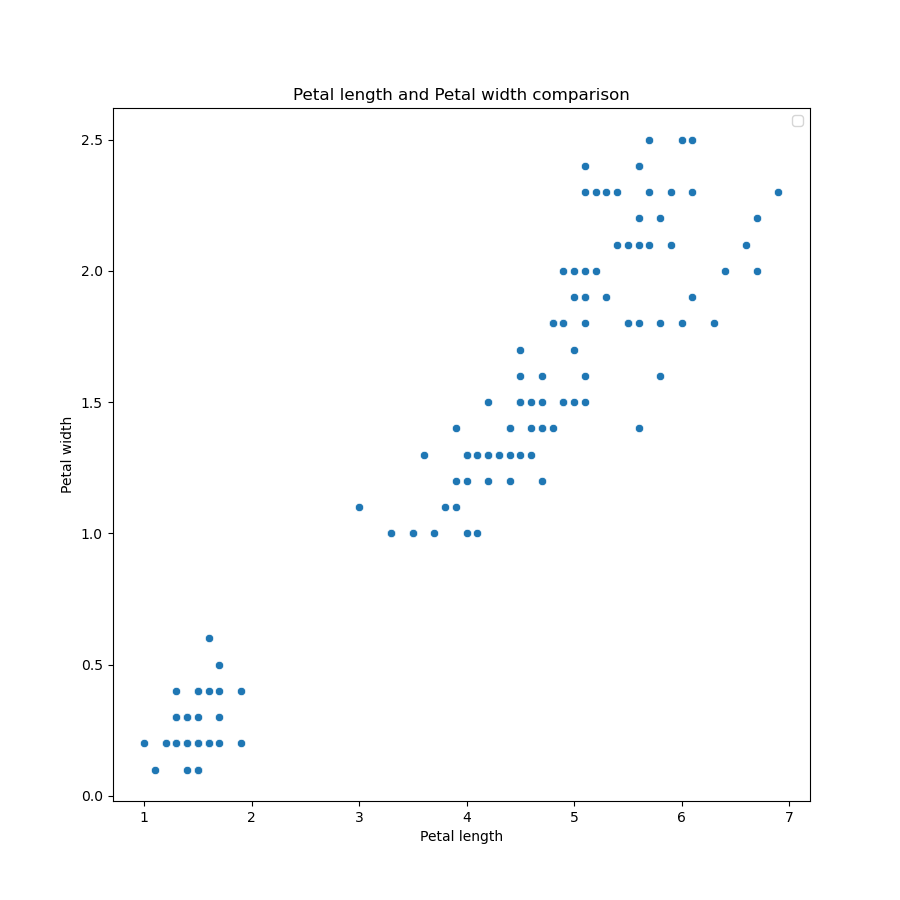
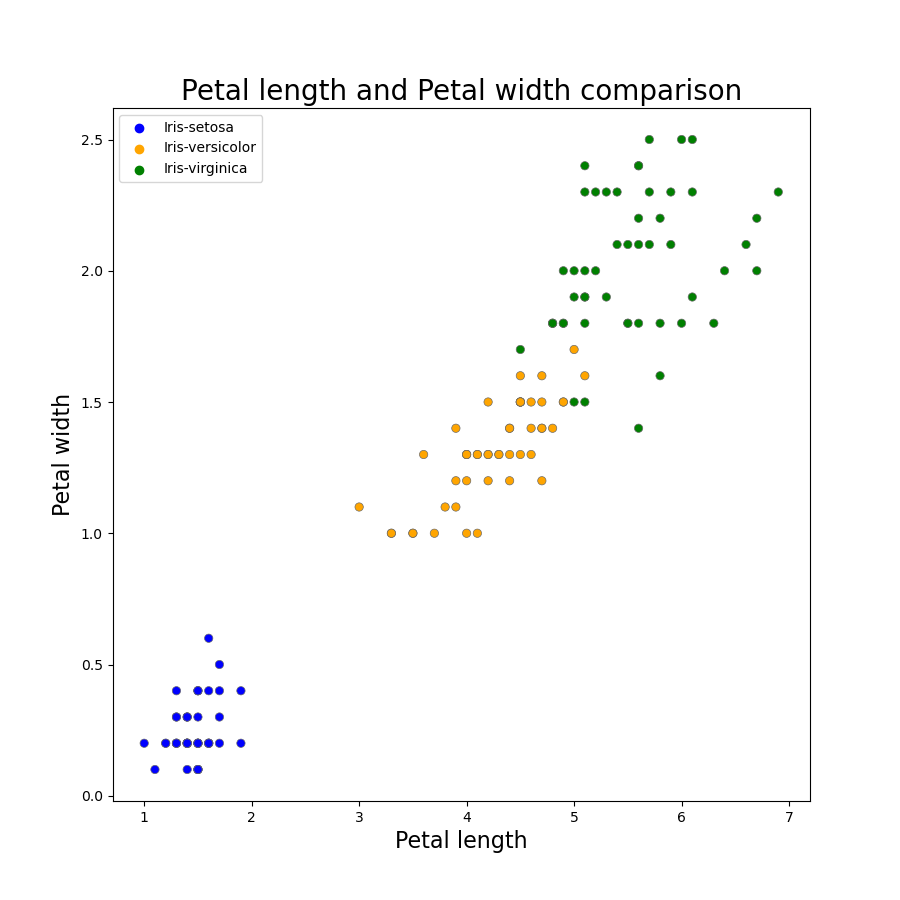
update plot size and legend on scatterplots

diff --git a/analysis.py b/analysis.py
@@ -76,6 +76,7 @@ def summary_output():
 # https://realpython.com/pandas-groupby/#pandas-groupby-putting-it-all-together
 # https://www.tutorialspoint.com/exploratory-data-analysis-on-iris-dataset
 # https://www.geeksforgeeks.org/pandas-groupby-and-computing-median/
+# https://datascienceparichay.com/article/pandas-groupby-median/
 # this code uses the groupby() to summarise the mean and median sepal width, sepal length,
 # petal length and petal width for each of the species variables
 ifds.groupby('Species').agg(['mean', 'median']).describe() # passing a list of recognized strings
@@ -120,7 +121,7 @@ def petal_length_hist():
     plt.xlabel("")
     plt.ylabel("Frequency", size = 16)
     plt.legend()
-    plt.savefig("Petal-lenght.png")
+    plt.savefig("Petal-length.png")
     plt.show()
 
 # function for plotting a histogram for petal width
@@ -158,20 +159,23 @@ def pairplot():
 # function for plotting a scatterplot for sepal length and width
 def sepal_length_width_scat():
     plt.figure(figsize = (9,9))
-    sns.scatterplot(x = "SepalLengthCm", y = "SepalWidthCm", data = ifds)
-    plt.title("Sepal length and Sepal width comparison")
-    plt.xlabel("Sepal length")
-    plt.ylabel("Sepal width")
+    sns.scatterplot(x = "SepalLengthCm", y = "SepalWidthCm", data = ifds, marker = "o", 
+                    hue = "Species", palette = ["blue","orange","green"], edgecolor = "dimgrey")
+    plt.title("Sepal length and Sepal width comparison", size = 20)
+    plt.xlabel("Sepal length", size = 16)
+    plt.ylabel("Sepal width", size = 16)
     plt.legend()
+    plt.savefig("Sepal-length-width.png")
     plt.show()
 
 # function for plotting a scatterplot for petal length and width
 def petal_length_width_scat():
     plt.figure(figsize = (9,9))
-    sns.scatterplot(x = "PetalLengthCm", y = "PetalWidthCm", data = ifds)
-    plt.title("Petal length and Petal width comparison")
-    plt.xlabel("Petal length")
-    plt.ylabel("Petal width")
+    sns.scatterplot(x = "PetalLengthCm", y = "PetalWidthCm", data = ifds, marker = "o", 
+                    hue = "Species", palette = ["blue","orange","green"], edgecolor = "dimgrey")
+    plt.title("Petal length and Petal width comparison", size = 20)
+    plt.xlabel("Petal length", size = 16)
+    plt.ylabel("Petal width", size = 16)
     plt.legend()
     plt.savefig("Petal-length-width.png")
     plt.show()
